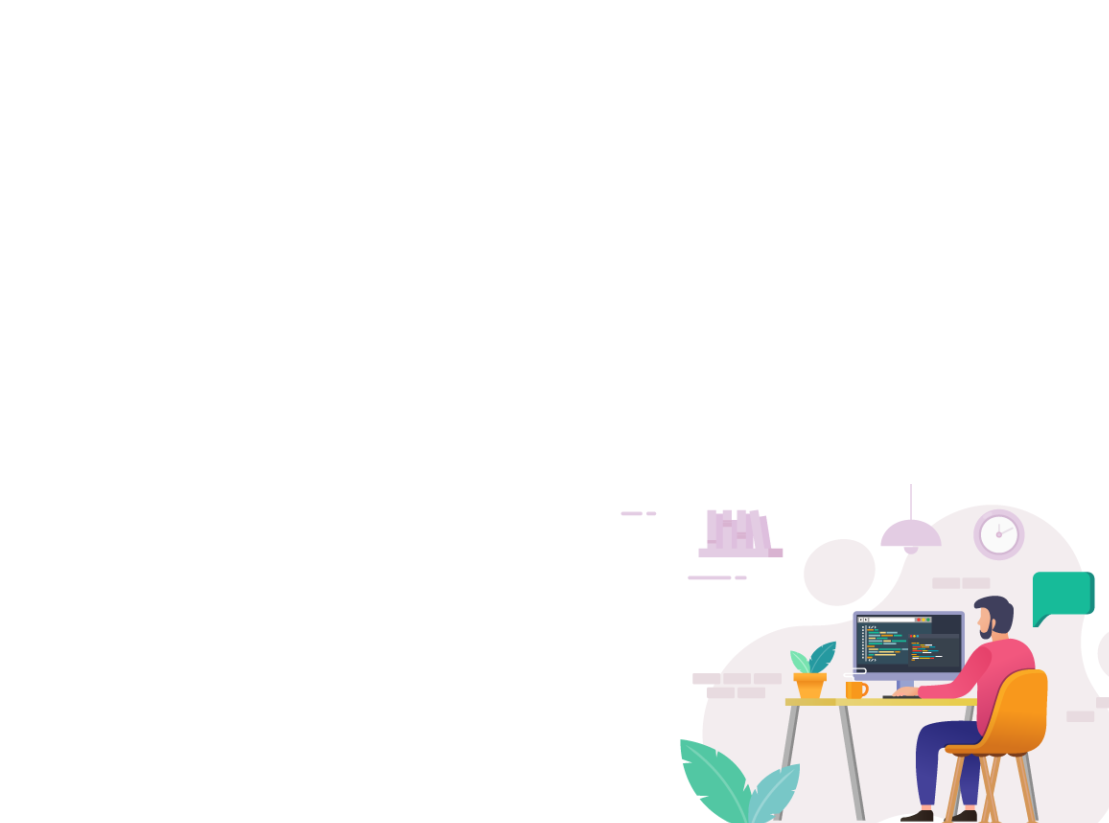
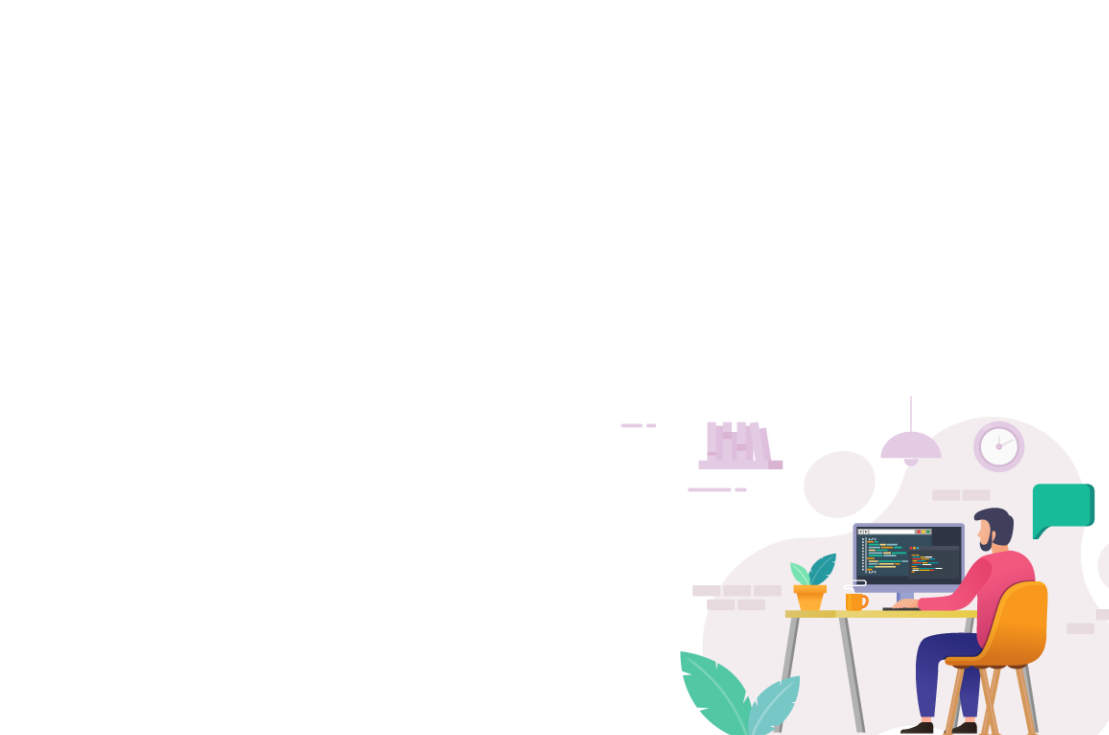
minor changes to website

diff --git a/docs/assets/css/style.css b/docs/assets/css/style.css
@@ -643,6 +643,7 @@ h6 {
 @media (max-width: 992px) {
     #hero {
         background: url("../img/hero-bg_small.png") bottom right;
+        height: 70vh;
     }
     #hero .play-btn {
         margin-top: 30px;
@@ -652,6 +653,7 @@ h6 {
 @media (max-height: 500px) {
     #hero {
         background: url("../img/hero-bg_small.png") bottom right;
+        height: 70vh;
     }
     #hero {
         height: auto;
@@ -665,6 +667,7 @@ h6 {
 @media (max-width: 768px) {
     #hero {
         background: url("../img/hero-bg_small.png") bottom right;
+        height: 70vh;
     }
     #hero h1 {
         font-size: 28px;

diff --git a/docs/index.html b/docs/index.html
@@ -54,7 +54,9 @@
     <header id="header" class="fixed-top d-flex align-items-cente">
         <div class="container-fluid container-xl d-flex align-items-center justify-content-lg-between">
 
-            <h1 class="logo me-auto me-lg-0"><a href="index.html">Remote Proctoring Device</a></h1>
+            <h1 class="logo me-auto me-lg-0">
+                <a href="index.html"></a>
+            </h1>
             <!-- Uncomment below if you prefer to use an image logo -->
             <!-- <a href="index.html" class="logo me-auto me-lg-0"><img src="assets/img/logo.png" alt="" class="img-fluid"></a>-->
 
